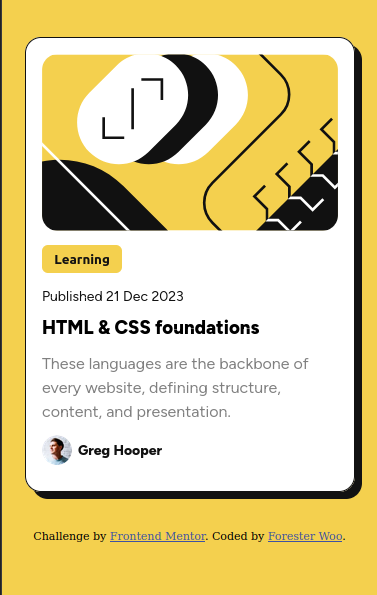
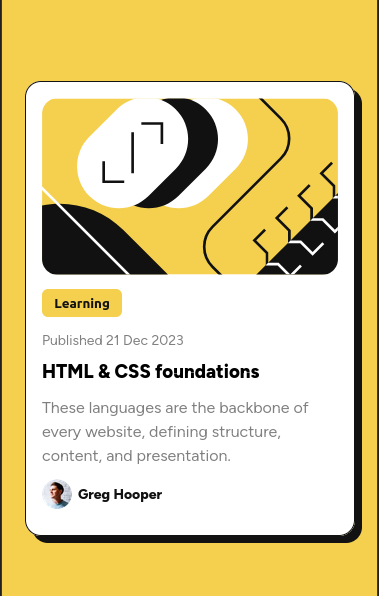
adding landmarks to the html code and updating the screenshots

diff --git a/blog-preview-card-main/index.html b/blog-preview-card-main/index.html
@@ -27,10 +27,10 @@
         <h4> Greg Hooper</h4>
       </div>
     </main>
-    <footer>
-      <div class="attribution">
-        <p>Challenge by <a href="https://www.frontendmentor.io?ref=challenge" target="_blank">Frontend Mentor</a>.</p>Coded by <a href="#">Forester Woo</a>.</p> 
-      </div>
+    <footer class="attribution">
+      <p>
+        Challenge by <a href="https://www.frontendmentor.io?ref=challenge" target="_blank">Frontend Mentor</a>.Coded by <a href="#">Forester Woo</a>.
+      </p>
     </footer>
   </body>
 </html>

diff --git a/blog-preview-card-main/assets/styles.css b/blog-preview-card-main/assets/styles.css
@@ -72,7 +72,7 @@ h3 {
 }
 .title {
     font-size: 14px;
-    color: hsl(0, 0%, 7%);;
+    color: hsl(0, 0%, 50%);;
 }
 .user_id {
     display: flex;
@@ -89,13 +89,11 @@ h3 {
     width: 30px;
     height: 30px;
 }
-.attribution {
-    font-size: 11px; 
-    text-align: center;
-    margin-top: 5%;
-
+.attribution p {
+    font-size: 11px;
+    margin-top: 12%;
 }
-.attribution a { 
+.attribution p a { 
     color: hsl(228, 45%, 44%);
 }
 @media only screen and (max-width: 600px) {
